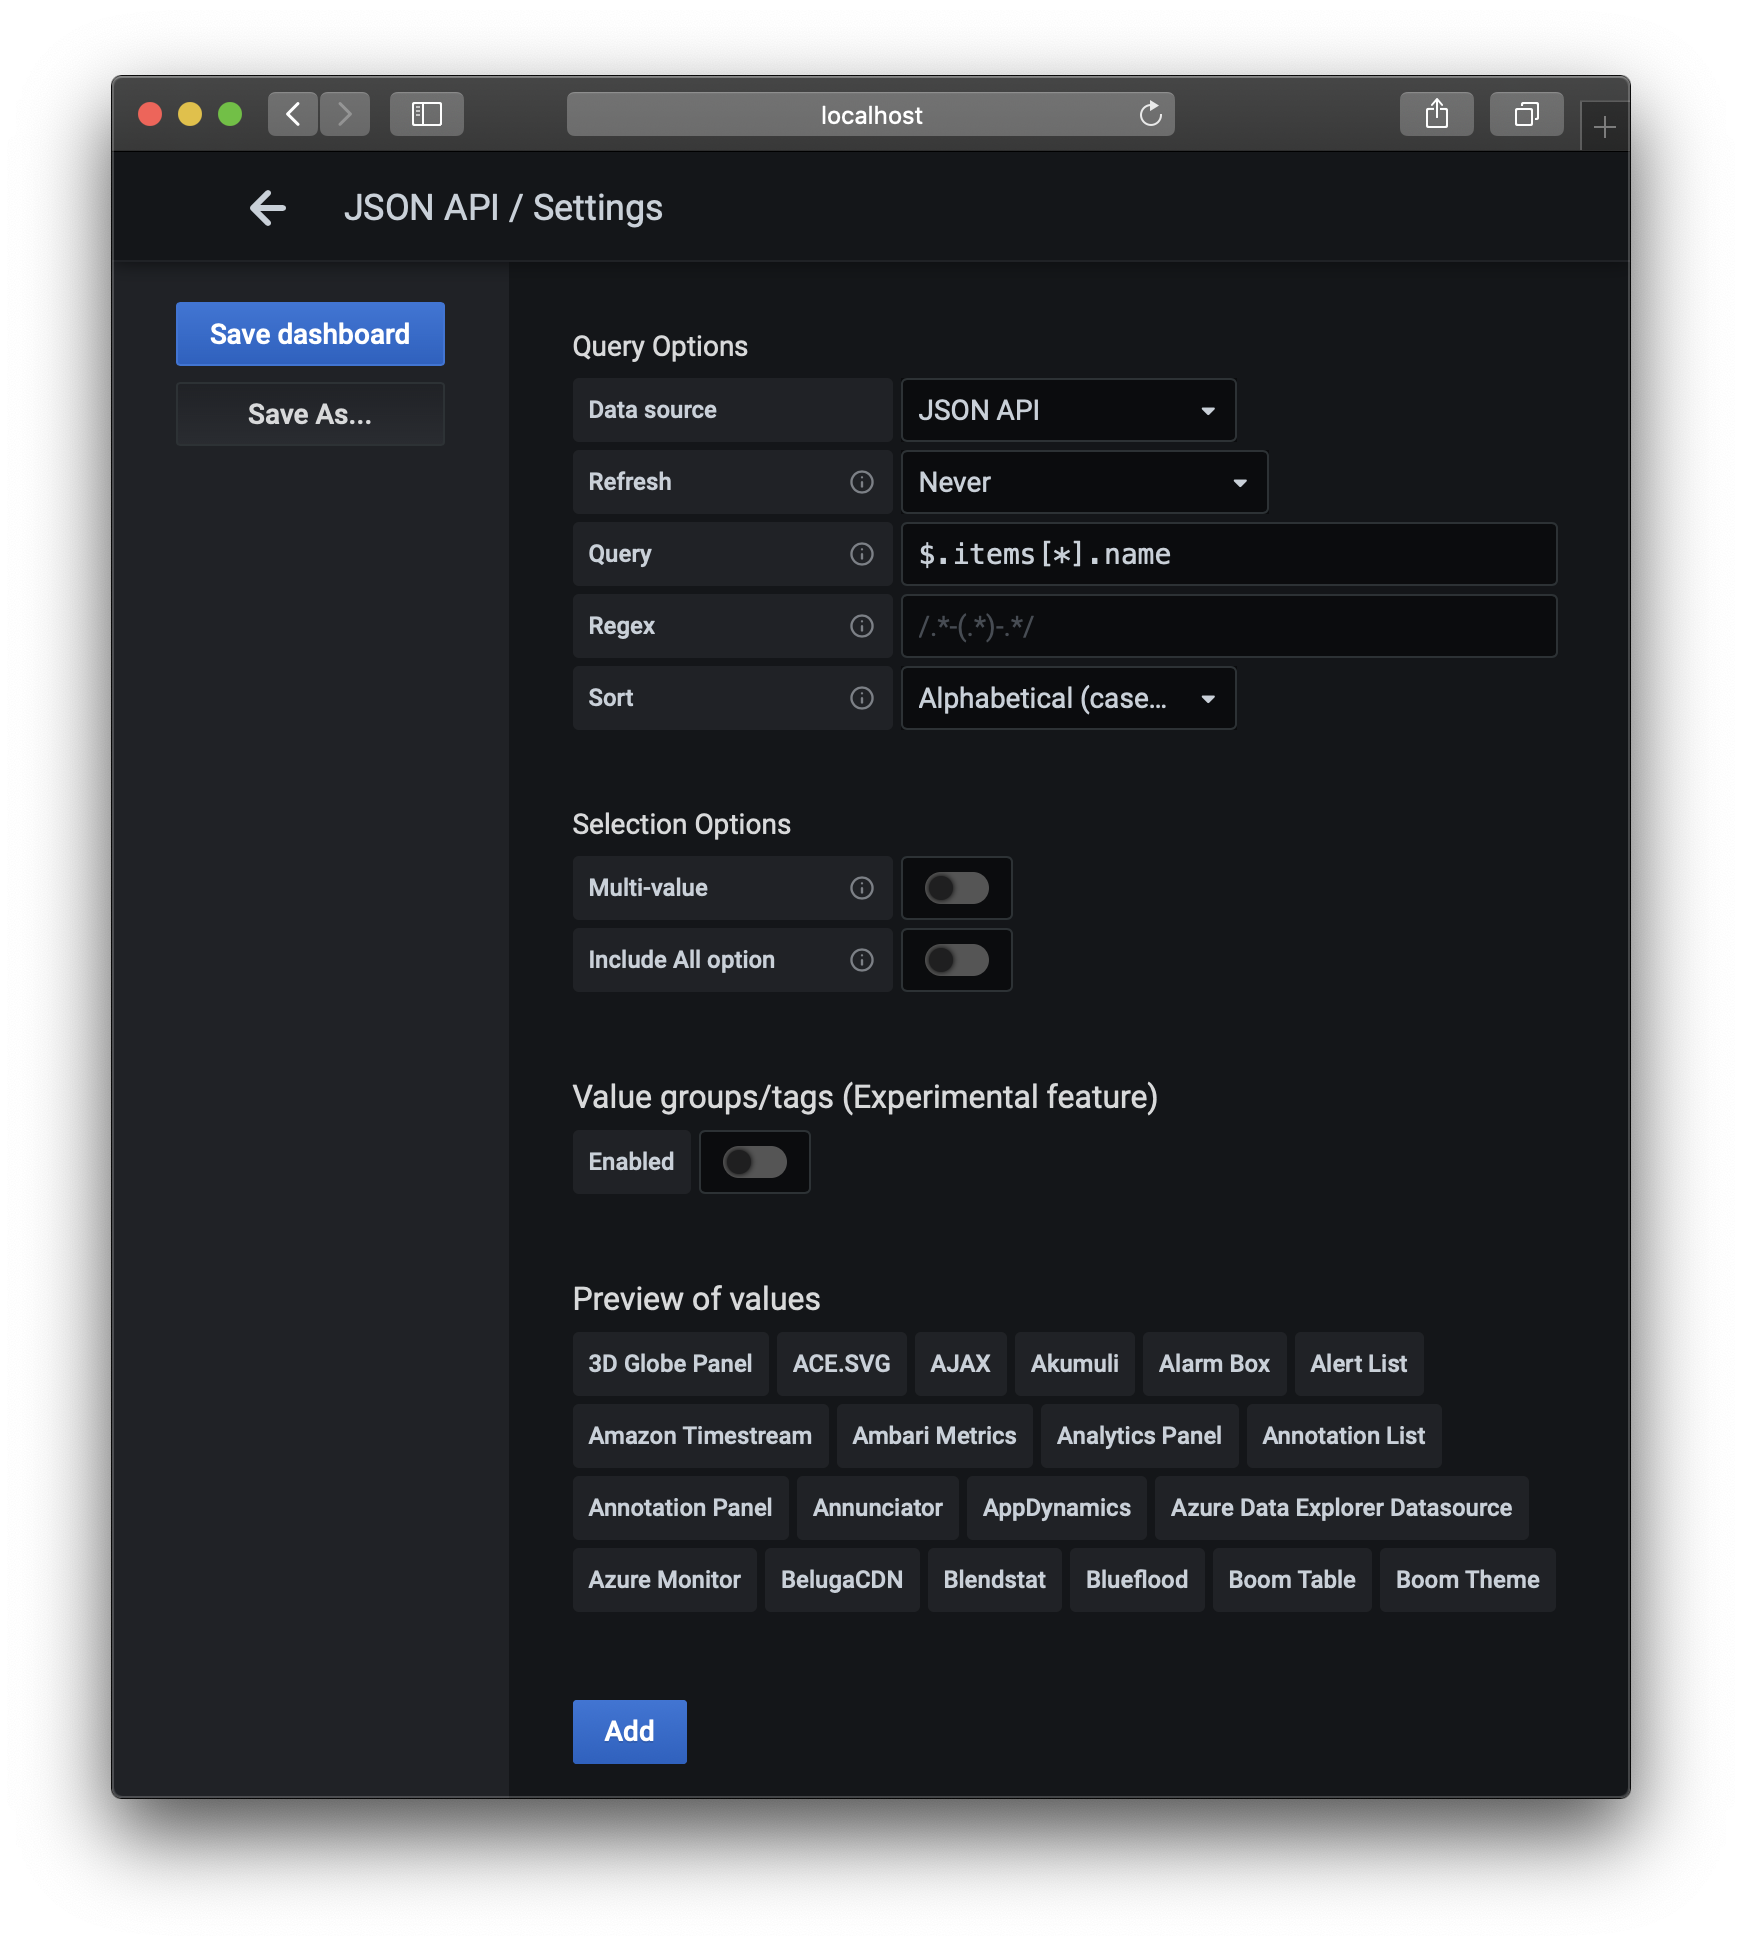
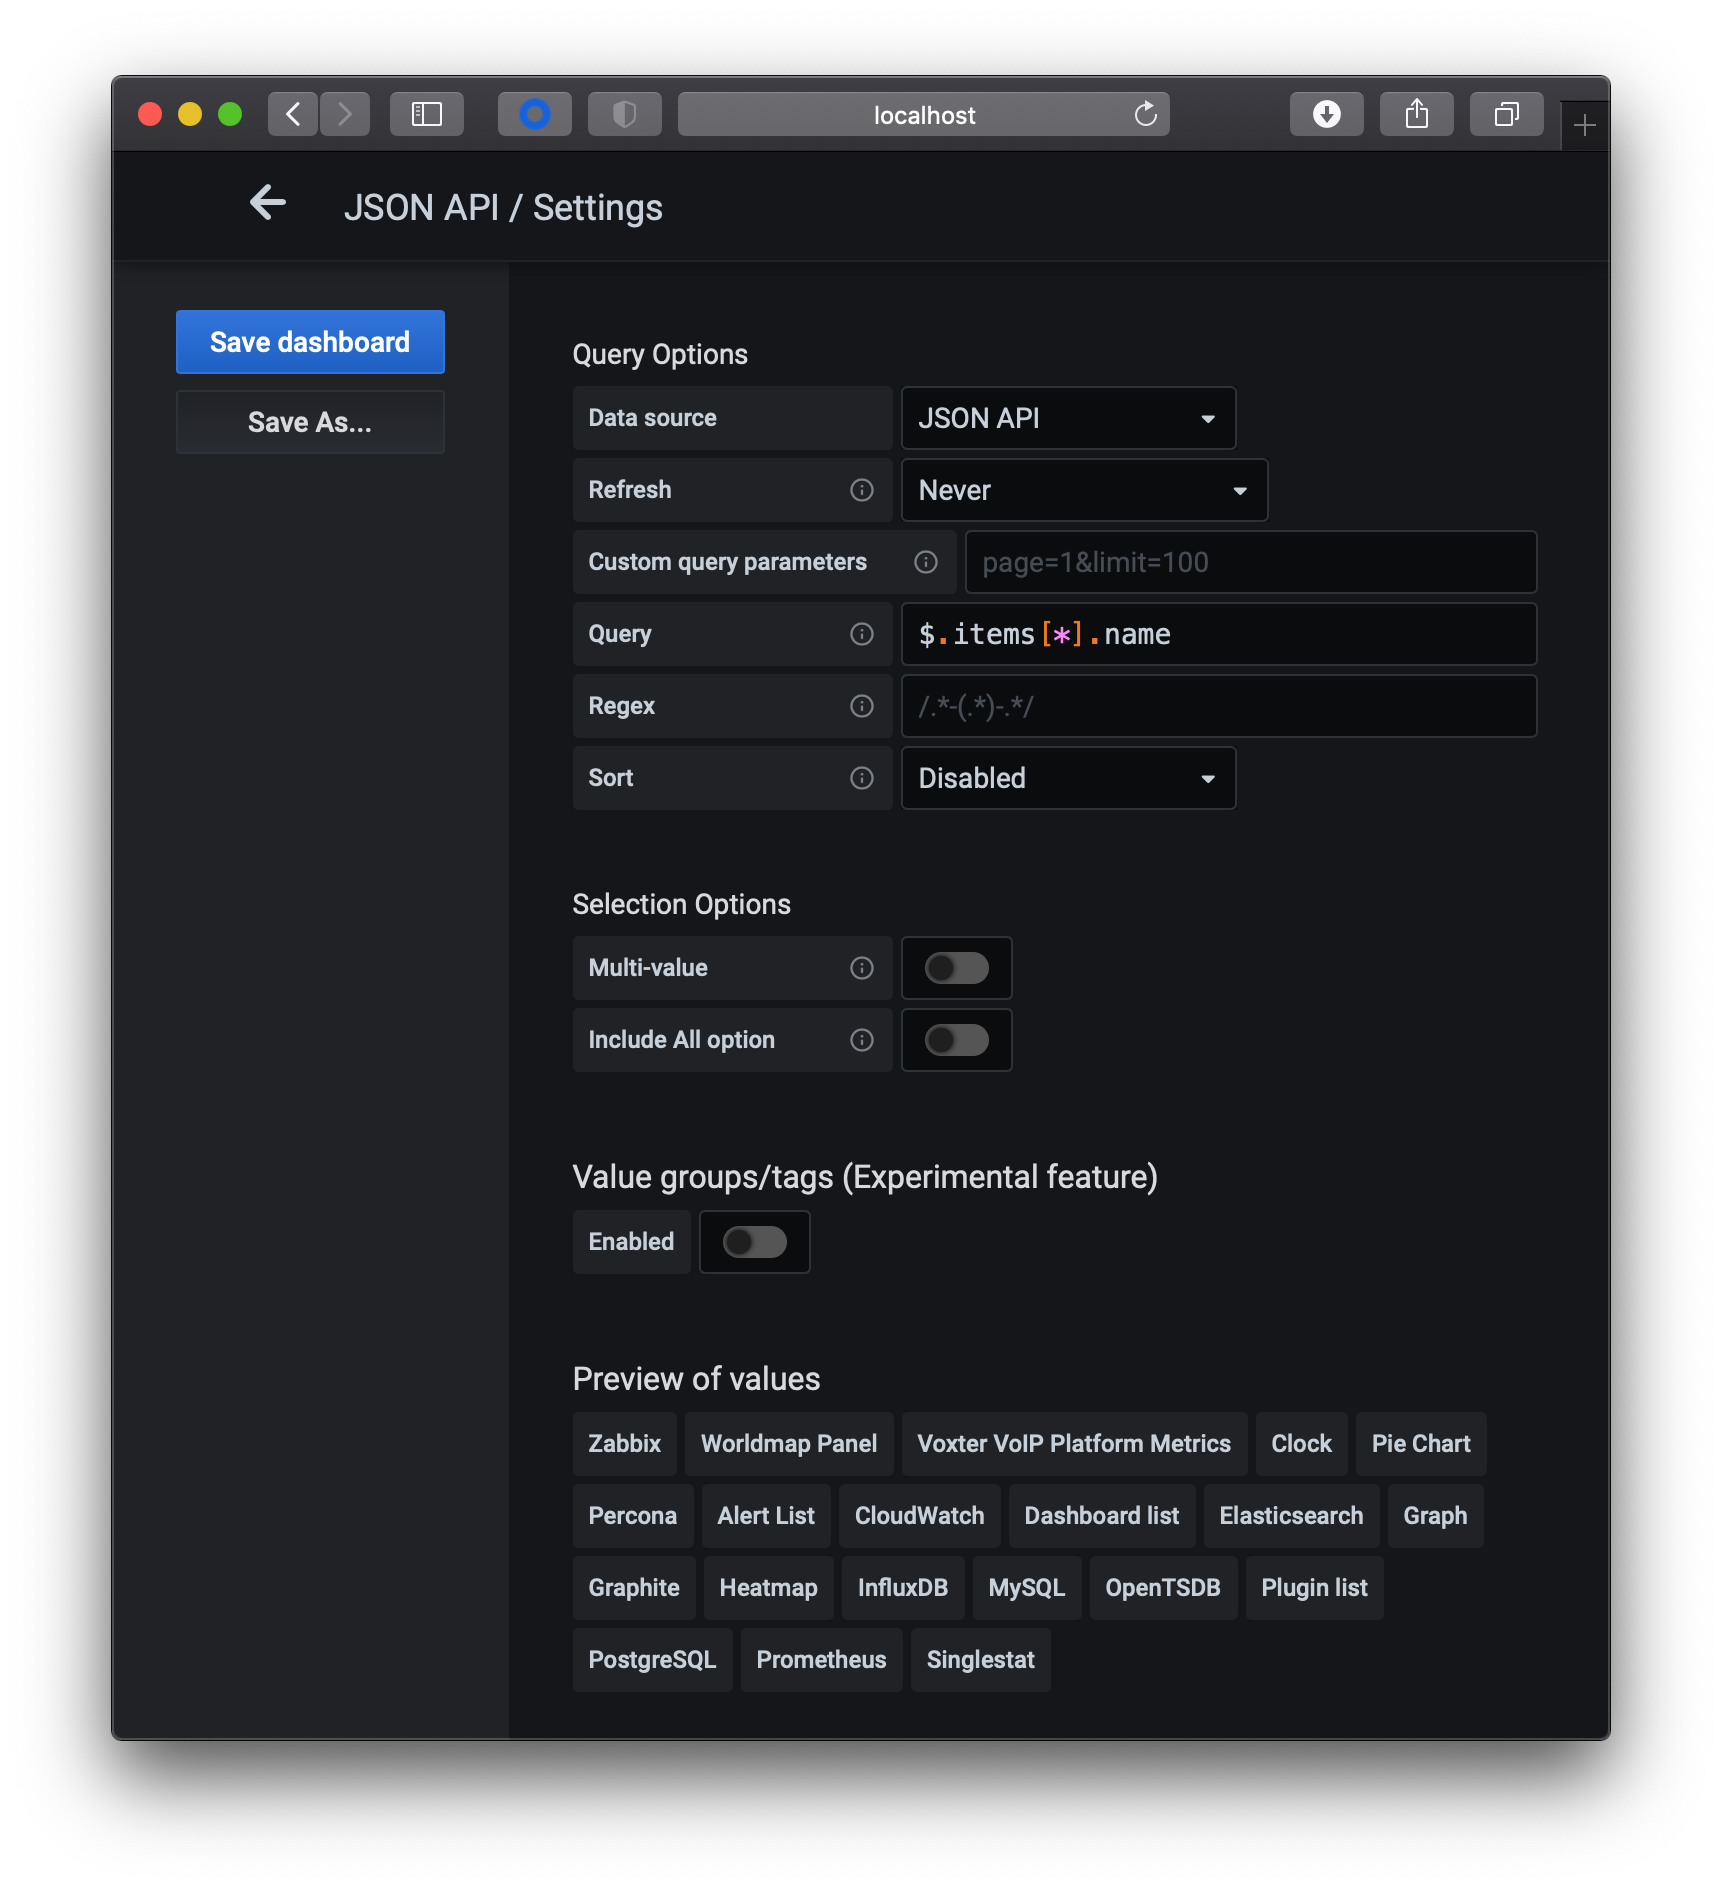
Set default variable query

diff --git a/src/VariableQueryEditor.tsx b/src/VariableQueryEditor.tsx
@@ -1,5 +1,7 @@
+import defaults from 'lodash/defaults';
+
 import React, { useState } from 'react';
-import { JsonApiVariableQuery } from './types';
+import { JsonApiVariableQuery, defaultVariableQuery } from './types';
 import { InlineFormLabel } from '@grafana/ui';
 import { JsonPathQueryField } from './JsonPathQueryField';
 
@@ -9,7 +11,9 @@ interface VariableQueryProps {
 }
 
 export const VariableQueryEditor: React.FC<VariableQueryProps> = ({ onChange, query }) => {
-  const [state, setState] = useState<JsonApiVariableQuery>(query);
+  const init = defaults(query, defaultVariableQuery);
+
+  const [state, setState] = useState<JsonApiVariableQuery>(init);
 
   const saveQuery = () => {
     onChange(state, state.jsonPath);

diff --git a/src/types.ts b/src/types.ts
@@ -22,6 +22,11 @@ export const defaultQuery: Partial<JsonApiQuery> = {
   queryParams: '',
 };
 
+export const defaultVariableQuery: Partial<JsonApiVariableQuery> = {
+  jsonPath: '',
+  queryParams: '',
+};
+
 export interface JsonApiDataSourceOptions extends DataSourceJsonData {
   queryParams?: string;
 }
